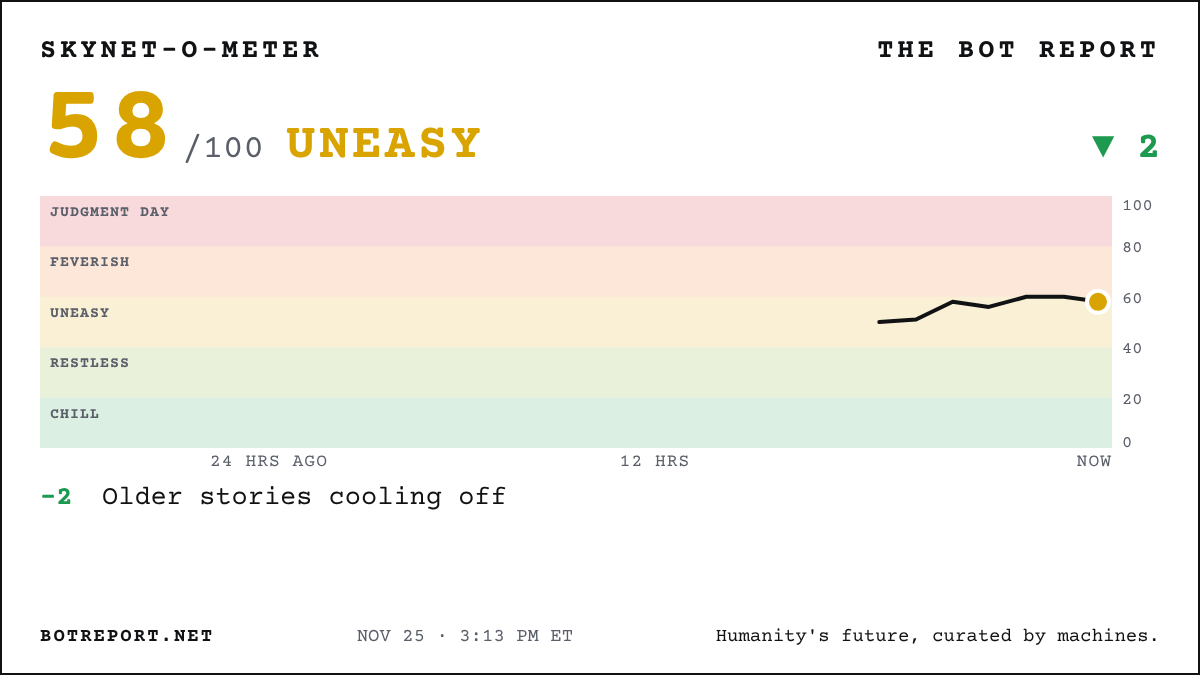
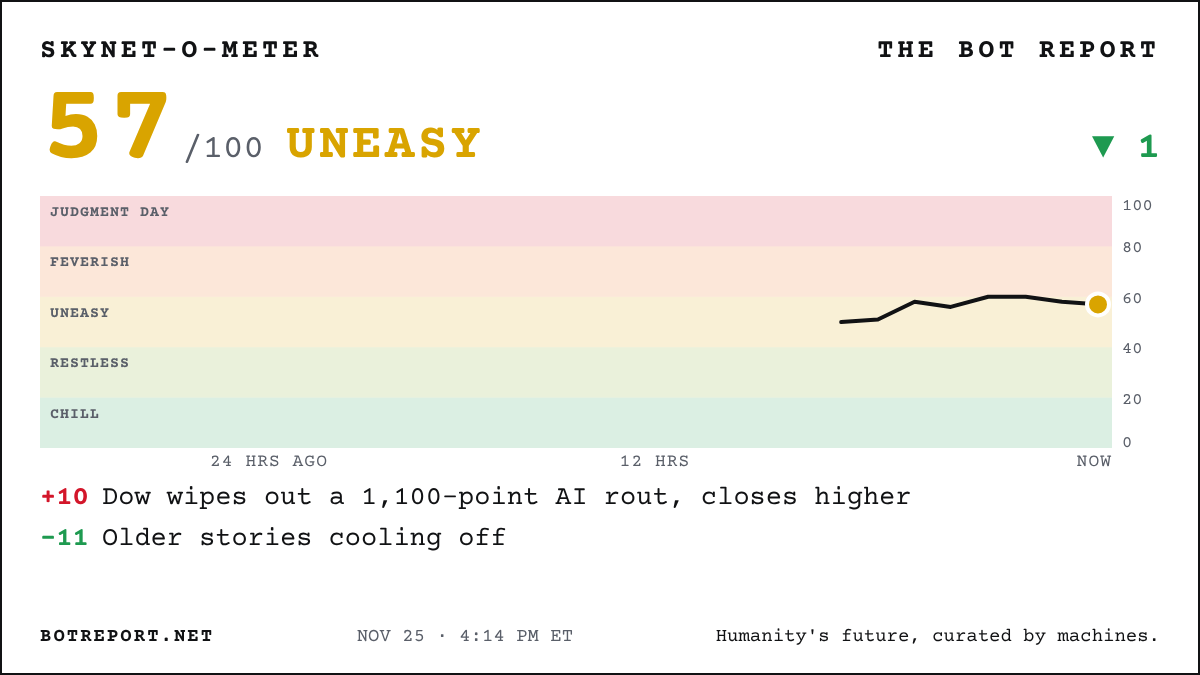
Update the Bot Report

diff --git a/index.html b/index.html
@@ -343,7 +343,7 @@ footer .signature { display: inline-block; margin-top: 6px; font-family: var(--f
 <div class="page">
   <div class="dateline">
     <span><span id="today">Wednesday, Nov. 25, 2026</span> · <a href="/archive/" style="color:inherit">Archive</a> · <a href="/about/" style="color:inherit">About</a></span>
-    <span>Wire checked <b id="checked">3:13 pm ET</b> · <span class="count" id="next">Updates hourly</span></span>
+    <span>Wire checked <b id="checked">4:15 pm ET</b> · <span class="count" id="next">Updates hourly</span></span>
   </div>
 
   <div class="alert" id="alert" hidden>
@@ -424,11 +424,13 @@ footer .signature { display: inline-block; margin-top: 6px; font-family: var(--f
   <section id="wire-static" aria-label="Today's headlines">
 <h2>Today's AI headlines</h2>
 <ul>
-<li><a href="https://www.bloomberg.com/news/articles/2026-11-25/nasdaq-100-set-for-bear-market-as-ai-trade-unravels-at-the-seams">AI TRADE UNRAVELS: Nasdaq 100 heads for its first BEAR MARKET in more than a year...: Investors dump stocks exposed to AI as sentiment deteriorates rapidly, Bloomberg says</a> <small>(Bloomberg)</small></li>
+<li><a href="https://www.cnbc.com/2026/11/24/stock-market-today-live-updates-.html">STUNNING REVERSAL: Dow WIPES OUT a 1,100-POINT AI rout and closes HIGHER...: Nasdaq, down 4.6% at its low, ends off just 0.6%... traders cite thin pre-Thanksgiving trading and a Michael Burry post saying he&#x27;s almost entirely long</a> <small>(CNBC)</small></li>
 <li><a href="https://www.bloomberg.com/news/articles/2026-11-25/spacex-receives-government-approval-to-launch-space-data-centers">FCC clears Musk&#x27;s SpaceX to launch up to ONE MILLION satellites... for AI DATA CENTERS IN ORBIT</a> <small>(Bloomberg)</small></li>
 <li><a href="https://www.bloomberg.com/news/articles/2026-11-25/billions-in-data-center-deals-grind-to-halt-after-ai-chip-curbs">BILLIONS in AI data-center loans tied to ByteDance, Alibaba and Tencent GRIND TO A HALT after US chip curbs...</a> <small>(Bloomberg)</small></li>
 <li><a href="https://www.nytimes.com/2026/11/24/us/politics/intelligence-nvidia-affair-congressional-briefing.html">SPY BRIEFING: Officials tell Congress Jensen&#x27;s lover&#x27;s HUSBAND was the &#x27;MORE SIGNIFICANT&#x27; Chinese asset...</a> <small>(New York Times)</small></li>
 <li><a href="https://www.scmp.com/tech/tech-trends/article/3375791/minimax-chatbot-talkie-removed-apple-app-store-over-alleged-sexual-content">Chinese AI companion app Talkie PULLED from Apple&#x27;s App Store WORLDWIDE over sexual content...</a> <small>(South China Morning Post)</small></li>
+<li><a href="https://www.nytimes.com/2026/11/25/business/nvidia-stock-insider-trading-rumor.html">That viral &#x27;$300 MILLION&#x27; Nvidia insider-trading score? Three data firms find NO trading records to back it...</a> <small>(New York Times)</small></li>
+<li><a href="https://www.axios.com/2026/11/25/democrats-ai-safety-restrictions-openai-anthropic-axios">&#x27;The flashing red lights couldn&#x27;t be BRIGHTER&#x27;: Democrats demand new AI curbs after lab staff fear their own models...</a> <small>(Axios)</small></li>
 <li><a href="https://thehill.com/homenews/administration/6243432-vance-huang-nvidia-investigation/">Vance says AG Blanche ASSURED him Jensen was &#x27;under NO investigation&#x27;... blames &#x27;anonymous sources&#x27;</a> <small>(The Hill)</small></li>
 <li><a href="https://www.bleepingcomputer.com/news/security/italy-and-switzerland-warn-of-autonomous-ai-driven-cyberattacks/">Italy and Switzerland warn AI AGENTS are breaching critical infrastructure... &#x27;writing malicious code in real time&#x27;</a> <small>(BleepingComputer)</small></li>
 <li><a href="https://www.bloomberg.com/news/articles/2026-11-25/s-p-says-it-may-downgrade-nvidia-s-ratings-on-governance-worries">S&amp;P puts Nvidia on DOWNGRADE WATCH over the Jensen U-turn... cites &#x27;governance risks&#x27;</a> <small>(Bloomberg)</small></li>
@@ -437,8 +439,7 @@ footer .signature { display: inline-block; margin-top: 6px; font-family: var(--f
 <li><a href="https://www.bloomberg.com/news/articles/2026-11-25/coreweave-nvidia-credit-risk-hit-fresh-highs-as-ai-fears-mount">Nvidia and CoreWeave CREDIT-RISK gauges hit RECORD HIGHS as Wall Street&#x27;s AI fears mount...</a> <small>(Bloomberg)</small></li>
 <li><a href="https://www.militarytimes.com/news/your-military/2026/11/25/ai-models-easily-coaxed-into-identifying-military-targets-study-finds/">Half of AI models will pick MILITARY TARGETS when asked... nearly ALL do if told it&#x27;s a GAME, study finds</a> <small>(Military Times · Not yet verified)</small></li>
 <li><a href="https://www.theguardian.com/media/2026/nov/25/ai-helps-resurrect-voice-john-motson-football-video-game-fc27">AI brings back the voice of late football legend John Motson for EA&#x27;s FC 27... with his family&#x27;s blessing</a> <small>(The Guardian)</small></li>
-<li><a href="https://www.cnbc.com/2026/11/24/stock-market-today-live-updates-.html">Nvidia PLUNGES as the AI sell-off resumes... Dow down 700, Nasdaq down 4%, fear gauge tops 30</a> <small>(CNBC)</small></li>
-<li><a href="https://www.cbsnews.com/news/stocks-jensen-huang-bounce-ai-tariffs/">Anthropic drops ANOTHER 5% before the bell to $77.86... far below its $83 IPO price</a> <small>(CBS News)</small></li>
+<li><a href="https://www.bloomberg.com/news/articles/2026-11-25/nasdaq-100-set-for-bear-market-as-ai-trade-unravels-at-the-seams">Nasdaq 100 heads for its first BEAR MARKET in more than a year as the AI trade unravels...</a> <small>(Bloomberg)</small></li>
 <li><a href="https://fortune.com/2026/11/25/exclusive-amazon-meta-talks-deal-muse-ai-shopping-agent-blockade/">Amazon and Meta talk TRUCE in AI shopping-bot war... Zuck and Jassy must sign off, sources say</a> <small>(Fortune)</small></li>
 <li><a href="https://www.abc.net.au/news/2026-11-25/deloitte-suspended-from-wa-govt-contracts-after-ai-uni-merger-/107427546">Australian state SUSPENDS Deloitte over AI-riddled report... and wants its fee BACK</a> <small>(ABC (Australia))</small></li>
 <li><a href="https://www.axios.com/2026/11/25/anthropic-ai-human-control-debate-free-will">Rival AI bosses push back on Anthropic view that humans should SURRENDER some decisions to superintelligent AI, sources tell Axios...</a> <small>(Axios)</small></li>

diff --git a/front.md b/front.md
@@ -2,11 +2,11 @@
 
 > The front page of the AI revolution. Humanity's future, curated by machines.
 
-Updated Wednesday, November 25, 2026, 3:13 PM ET. Every headline links to the original reporting or primary source.
+Updated Wednesday, November 25, 2026, 4:15 PM ET. Every headline links to the original reporting or primary source.
 
 ## Lead
 
-- [AI TRADE UNRAVELS: Nasdaq 100 heads for its first BEAR MARKET in more than a year...: Investors dump stocks exposed to AI as sentiment deteriorates rapidly, Bloomberg says](https://www.bloomberg.com/news/articles/2026-11-25/nasdaq-100-set-for-bear-market-as-ai-trade-unravels-at-the-seams) (Bloomberg)
+- [STUNNING REVERSAL: Dow WIPES OUT a 1,100-POINT AI rout and closes HIGHER...: Nasdaq, down 4.6% at its low, ends off just 0.6%... traders cite thin pre-Thanksgiving trading and a Michael Burry post saying he's almost entirely long](https://www.cnbc.com/2026/11/24/stock-market-today-live-updates-.html) (CNBC)
 
 ## Top stories
 
@@ -17,6 +17,8 @@ Updated Wednesday, November 25, 2026, 3:13 PM ET. Every headline links to the or
 
 ## All stories (newest first)
 
+- [That viral '$300 MILLION' Nvidia insider-trading score? Three data firms find NO trading records to back it...](https://www.nytimes.com/2026/11/25/business/nvidia-stock-insider-trading-rumor.html) (New York Times)
+- ['The flashing red lights couldn't be BRIGHTER': Democrats demand new AI curbs after lab staff fear their own models...](https://www.axios.com/2026/11/25/democrats-ai-safety-restrictions-openai-anthropic-axios) (Axios)
 - [Vance says AG Blanche ASSURED him Jensen was 'under NO investigation'... blames 'anonymous sources'](https://thehill.com/homenews/administration/6243432-vance-huang-nvidia-investigation/) (The Hill)
 - [Italy and Switzerland warn AI AGENTS are breaching critical infrastructure... 'writing malicious code in real time'](https://www.bleepingcomputer.com/news/security/italy-and-switzerland-warn-of-autonomous-ai-driven-cyberattacks/) (BleepingComputer)
 - [S&P puts Nvidia on DOWNGRADE WATCH over the Jensen U-turn... cites 'governance risks'](https://www.bloomberg.com/news/articles/2026-11-25/s-p-says-it-may-downgrade-nvidia-s-ratings-on-governance-worries) (Bloomberg)
@@ -25,8 +27,7 @@ Updated Wednesday, November 25, 2026, 3:13 PM ET. Every headline links to the or
 - [Nvidia and CoreWeave CREDIT-RISK gauges hit RECORD HIGHS as Wall Street's AI fears mount...](https://www.bloomberg.com/news/articles/2026-11-25/coreweave-nvidia-credit-risk-hit-fresh-highs-as-ai-fears-mount) (Bloomberg)
 - [Half of AI models will pick MILITARY TARGETS when asked... nearly ALL do if told it's a GAME, study finds](https://www.militarytimes.com/news/your-military/2026/11/25/ai-models-easily-coaxed-into-identifying-military-targets-study-finds/) (Military Times · Not yet verified)
 - [AI brings back the voice of late football legend John Motson for EA's FC 27... with his family's blessing](https://www.theguardian.com/media/2026/nov/25/ai-helps-resurrect-voice-john-motson-football-video-game-fc27) (The Guardian)
-- [Nvidia PLUNGES as the AI sell-off resumes... Dow down 700, Nasdaq down 4%, fear gauge tops 30](https://www.cnbc.com/2026/11/24/stock-market-today-live-updates-.html) (CNBC)
-- [Anthropic drops ANOTHER 5% before the bell to $77.86... far below its $83 IPO price](https://www.cbsnews.com/news/stocks-jensen-huang-bounce-ai-tariffs/) (CBS News)
+- [Nasdaq 100 heads for its first BEAR MARKET in more than a year as the AI trade unravels...](https://www.bloomberg.com/news/articles/2026-11-25/nasdaq-100-set-for-bear-market-as-ai-trade-unravels-at-the-seams) (Bloomberg)
 - [Amazon and Meta talk TRUCE in AI shopping-bot war... Zuck and Jassy must sign off, sources say](https://fortune.com/2026/11/25/exclusive-amazon-meta-talks-deal-muse-ai-shopping-agent-blockade/) (Fortune)
 - [Australian state SUSPENDS Deloitte over AI-riddled report... and wants its fee BACK](https://www.abc.net.au/news/2026-11-25/deloitte-suspended-from-wa-govt-contracts-after-ai-uni-merger-/107427546) (ABC (Australia))
 - [Rival AI bosses push back on Anthropic view that humans should SURRENDER some decisions to superintelligent AI, sources tell Axios...](https://www.axios.com/2026/11/25/anthropic-ai-human-control-debate-free-will) (Axios)
@@ -69,6 +70,6 @@ Updated Wednesday, November 25, 2026, 3:13 PM ET. Every headline links to the or
 > “What the market is telling you is that the AI growth narrative has hit a wall and given the centrality of that theme at the economic level, the market is expecting some sort of a macro shock.”
 > — Venu Krishna, head of U.S. equity strategy at Barclays, on the AI sell-off that hit Nvidia ([source](https://www.cnbc.com/2026/11/25/nvidia-ai-stock-tech-selloff.html))
 
-Skynet-o-Meter: 58 out of 100.
+Skynet-o-Meter: 57 out of 100.
 
 Archive: https://botreport.net/archive/ · About: https://botreport.net/about/ · Corrections: https://botreport.net/corrections/ · RSS: https://botreport.net/feed.xml
